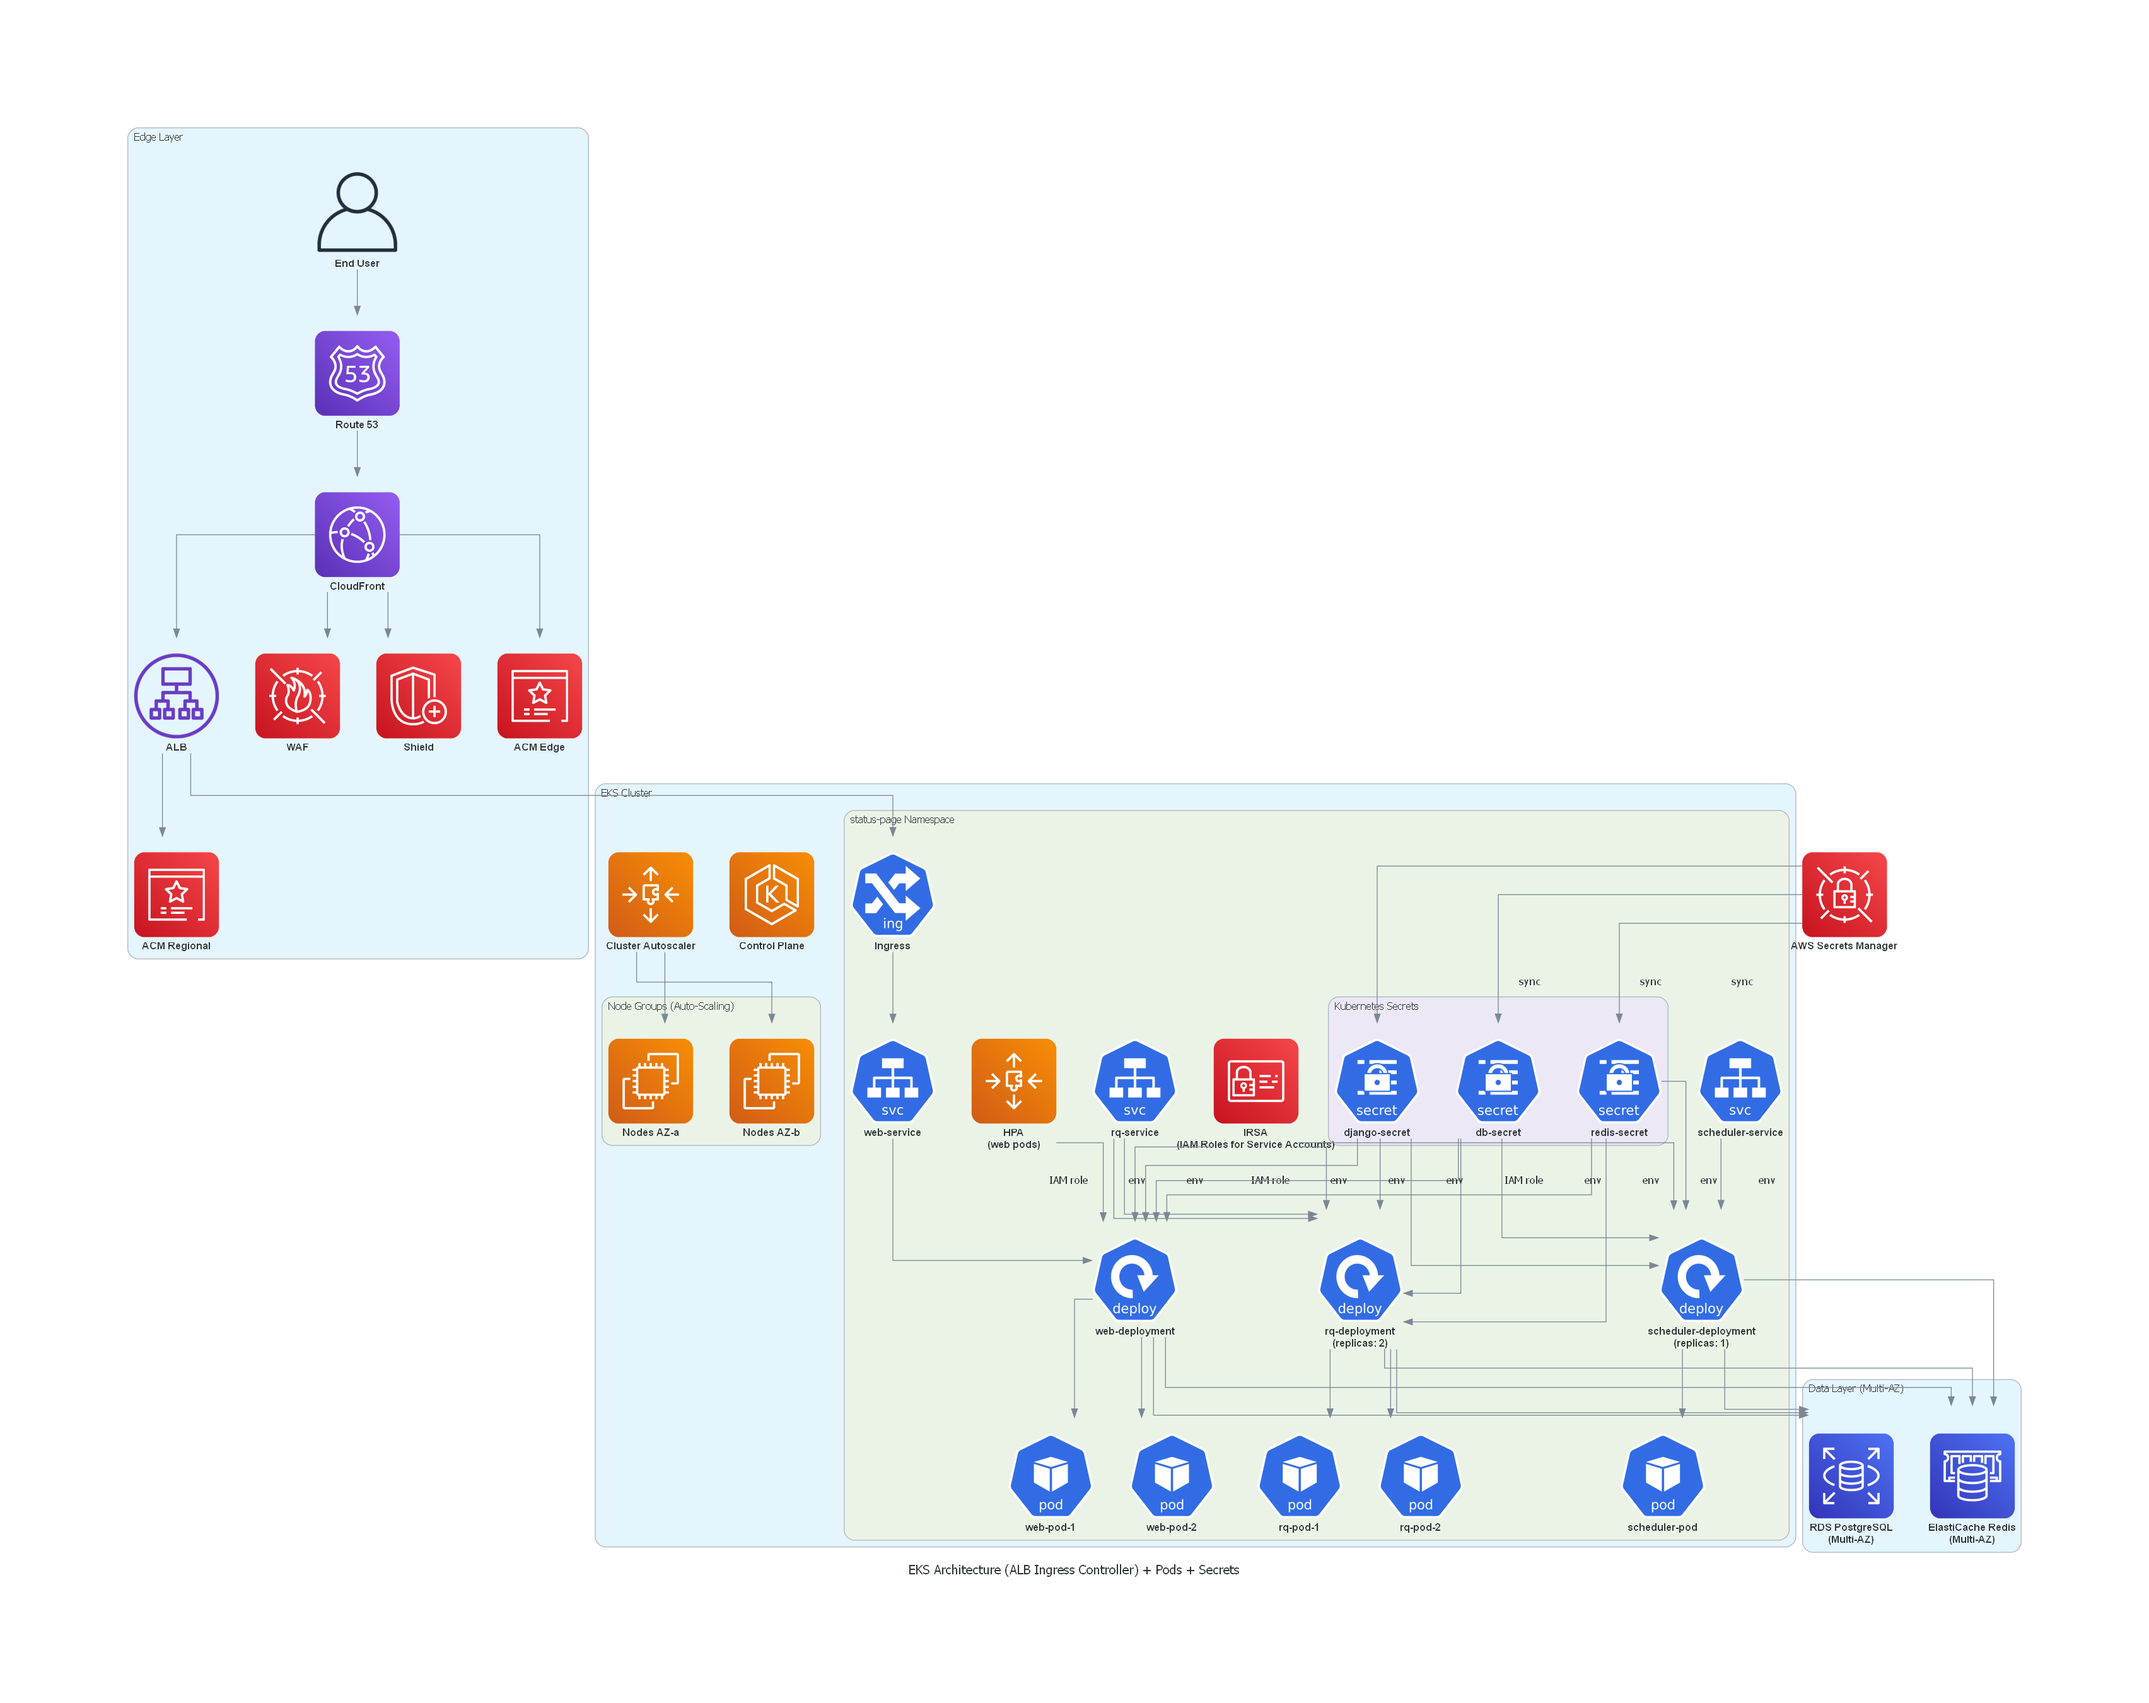
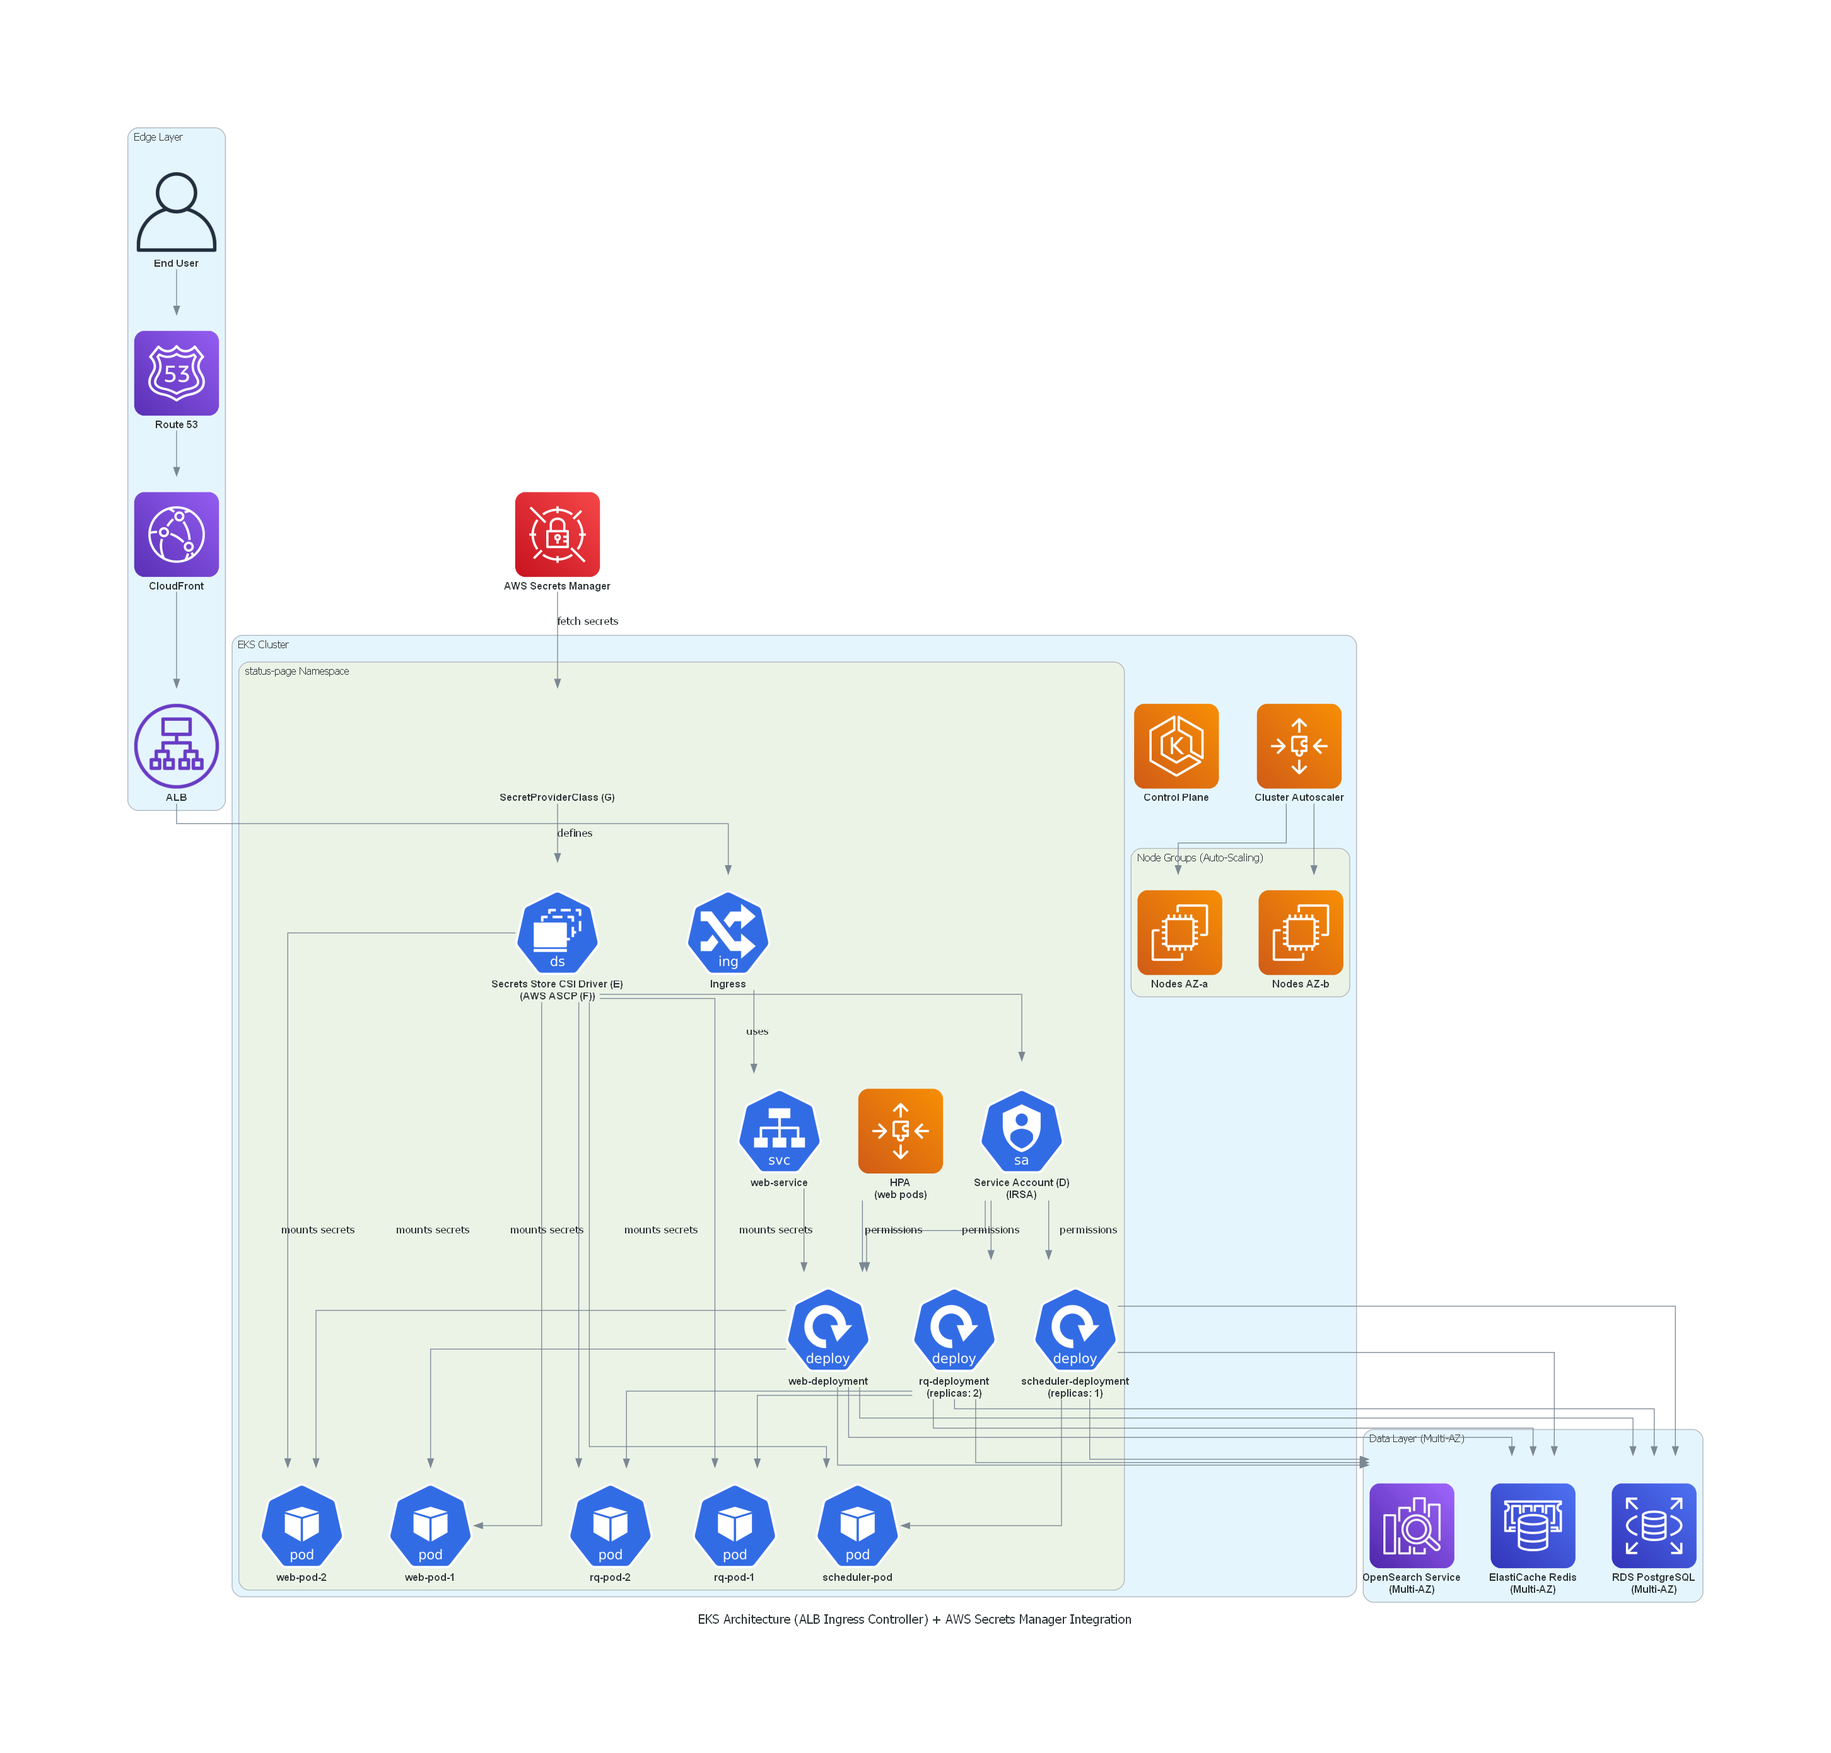
update config

Changed region(s): [[0.062, 0.0622, 0.9611, 0.9333], [0.279, 0.7467, 0.341, 0.7778], [0.372, 0.7467, 0.403, 0.7778]]

diff --git a/arch/eks_alb_ingress_with_secrets/main.py b/arch/eks_alb_ingress_with_secrets/main.py
@@ -12,13 +12,16 @@ from settings import node_attr
 from diagrams.onprem.client import User
 
 from diagrams.aws.network import Route53, CloudFront, ALB
-from diagrams.aws.security import WAF, Shield, ACM, SecretsManager, IAM
+from diagrams.aws.security import SecretsManager
 from diagrams.aws.compute import EKS, EC2, ApplicationAutoScaling
 from diagrams.aws.database import RDS, ElastiCache
+from diagrams.aws.analytics import AmazonOpensearchService
 
 from diagrams.k8s.network import Ingress, Service
-from diagrams.k8s.compute import Deployment, Pod
-from diagrams.k8s.podconfig import Secret
+from diagrams.k8s.compute import Deployment, Pod, DaemonSet
+from diagrams.k8s.rbac import ServiceAccount
+
+from diagrams.generic.blank import Blank
 
 # ---- A. Fix Graphviz PATH for Windows (harmless on Linux/Mac) ----
 graphviz_bin = r"C:\Program Files\Graphviz\bin"
@@ -28,7 +31,7 @@ if os.name == "nt" and os.path.isdir(graphviz_bin):
 
 # ---- B. Only existing icons (no non-existent imports) ----
 with Diagram(
-    "EKS Architecture (ALB Ingress Controller) + Pods + Secrets",
+    "EKS Architecture (ALB Ingress Controller) + AWS Secrets Manager Integration",
     filename="eks_alb_ingress_with_secrets",
     direction="TB",
     show=False,
@@ -41,16 +44,11 @@ with Diagram(
         cf = CloudFront("CloudFront")
         alb = ALB("ALB")
 
-        # Security components
-        waf_edge = WAF("WAF")
-        shield_edge = Shield("Shield")
-        acm_edge = ACM("ACM Edge")
-        acm_regional = ACM("ACM Regional")
-
     # Data Layer
     with Cluster("Data Layer (Multi-AZ)"):
         rds = RDS("RDS PostgreSQL\n(Multi-AZ)")
         redis = ElastiCache("ElastiCache Redis\n(Multi-AZ)")
+        opensearch = AmazonOpensearchService("OpenSearch Service\n(Multi-AZ)")
 
     # Kubernetes / EKS
     with Cluster("EKS Cluster"):
@@ -64,14 +62,9 @@ with Diagram(
             ng_b = EC2("Nodes AZ-b")
 
         with Cluster("status-page Namespace"):
-            # IRSA - IAM Roles for Service Accounts
-            irsa = IAM("IRSA\n(IAM Roles for Service Accounts)")
-
-            # Ingress + Services
+            # Ingress + Service
             ing = Ingress("Ingress")
             svc_web = Service("web-service")
-            svc_rq = Service("rq-service")
-            svc_sched = Service("scheduler-service")
 
             # Deployments
             deploy_web = Deployment("web-deployment")
@@ -87,29 +80,24 @@ with Diagram(
             rq_pods = [Pod("rq-pod-1"), Pod("rq-pod-2")]
             sched_pod = Pod("scheduler-pod")
 
-            # Secrets
-            with Cluster("Kubernetes Secrets"):
-                k8s_secret_db = Secret("db-secret")
-                k8s_secret_redis = Secret("redis-secret")
-                k8s_secret_django = Secret("django-secret")
+            # AWS Secrets Manager Integration
+            sa = ServiceAccount("Service Account (D)\n(IRSA)")
+            csi_driver = DaemonSet("Secrets Store CSI Driver (E)\n(AWS ASCP (F))")
+            spc = Blank("SecretProviderClass (G)")
 
     # AWS Secrets Manager
     sm = SecretsManager("AWS Secrets Manager")
 
     # --- Traffic Flow ---
     user >> r53 >> cf >> alb
-    cf >> waf_edge
-    cf >> shield_edge
-    cf >> acm_edge
-    alb >> acm_regional
 
     alb >> ing >> svc_web >> deploy_web
     deploy_web >> web_pods[0]
     deploy_web >> web_pods[1]
 
-    svc_rq >> deploy_rq >> rq_pods[0]
-    svc_rq >> deploy_rq >> rq_pods[1]
-    svc_sched >> deploy_sched >> sched_pod
+    deploy_rq >> rq_pods[0]
+    deploy_rq >> rq_pods[1]
+    deploy_sched >> sched_pod
 
     # HPA monitoring web pods
     hpa_web >> deploy_web
@@ -118,33 +106,27 @@ with Diagram(
     cluster_autoscaler >> ng_a
     cluster_autoscaler >> ng_b
 
-    # Secrets connections
-    k8s_secret_db >> Edge(label="env") >> deploy_web
-    k8s_secret_redis >> Edge(label="env") >> deploy_web
-    k8s_secret_django >> Edge(label="env") >> deploy_web
+    # AWS Secrets Manager Integration
+    sm >> Edge(label="fetch secrets") >> spc
+    spc >> Edge(label="defines") >> csi_driver
+    csi_driver >> Edge(label="uses") >> sa
+    sa >> Edge(label="permissions") >> deploy_web
+    sa >> Edge(label="permissions") >> deploy_rq
+    sa >> Edge(label="permissions") >> deploy_sched
+    # Secrets mounted to pods
+    csi_driver >> Edge(label="mounts secrets") >> web_pods[0]
+    csi_driver >> Edge(label="mounts secrets") >> web_pods[1]
+    csi_driver >> Edge(label="mounts secrets") >> rq_pods[0]
+    csi_driver >> Edge(label="mounts secrets") >> rq_pods[1]
+    csi_driver >> Edge(label="mounts secrets") >> sched_pod
 
-    k8s_secret_db >> Edge(label="env") >> deploy_rq
-    k8s_secret_redis >> Edge(label="env") >> deploy_rq
-    k8s_secret_django >> Edge(label="env") >> deploy_rq
-
-    k8s_secret_db >> Edge(label="env") >> deploy_sched
-    k8s_secret_redis >> Edge(label="env") >> deploy_sched
-    k8s_secret_django >> Edge(label="env") >> deploy_sched
-
-    # Sync from AWS Secrets Manager
-    sm >> Edge(label="sync") >> k8s_secret_db
-    sm >> Edge(label="sync") >> k8s_secret_redis
-    sm >> Edge(label="sync") >> k8s_secret_django
-
-    # Application access to DB/Redis
+    # Application access to DB/Redis/OpenSearch
     deploy_web >> rds
     deploy_web >> redis
+    deploy_web >> opensearch
     deploy_rq >> rds
     deploy_rq >> redis
+    deploy_rq >> opensearch
     deploy_sched >> rds
     deploy_sched >> redis
-
-    # IRSA connections
-    irsa >> Edge(label="IAM role") >> deploy_web
-    irsa >> Edge(label="IAM role") >> deploy_rq
-    irsa >> Edge(label="IAM role") >> deploy_sched
+    deploy_sched >> opensearch
